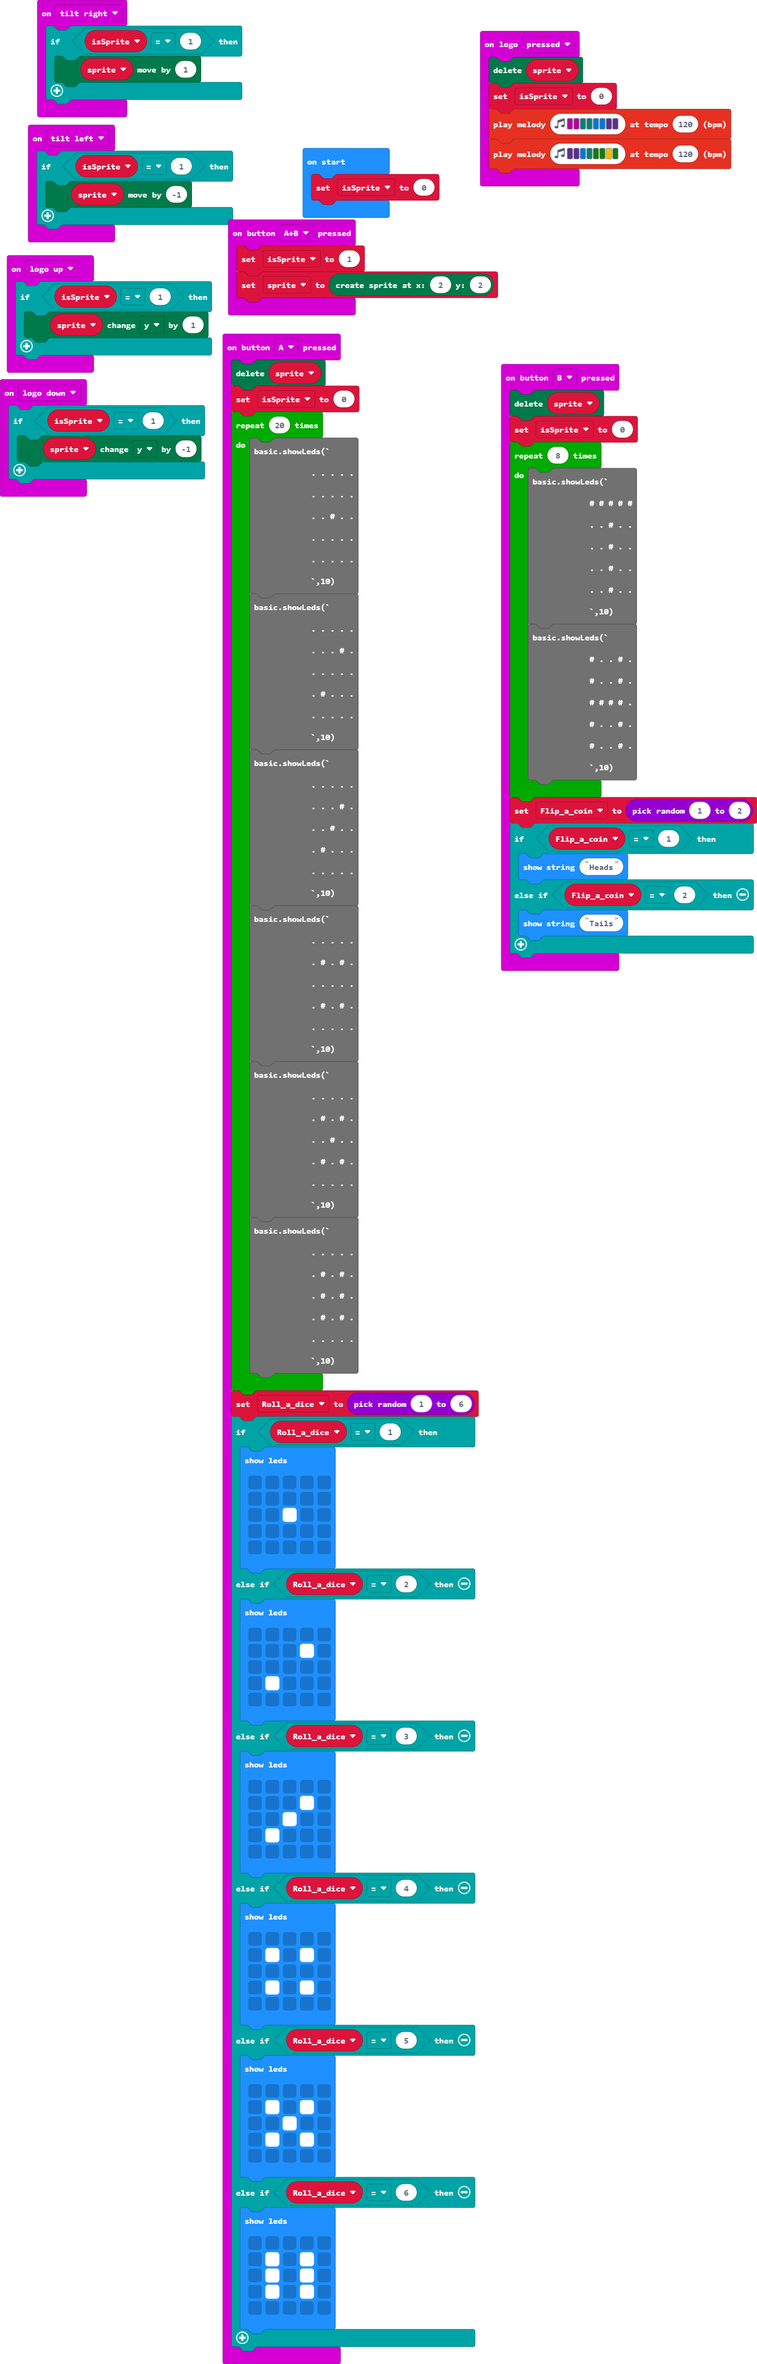
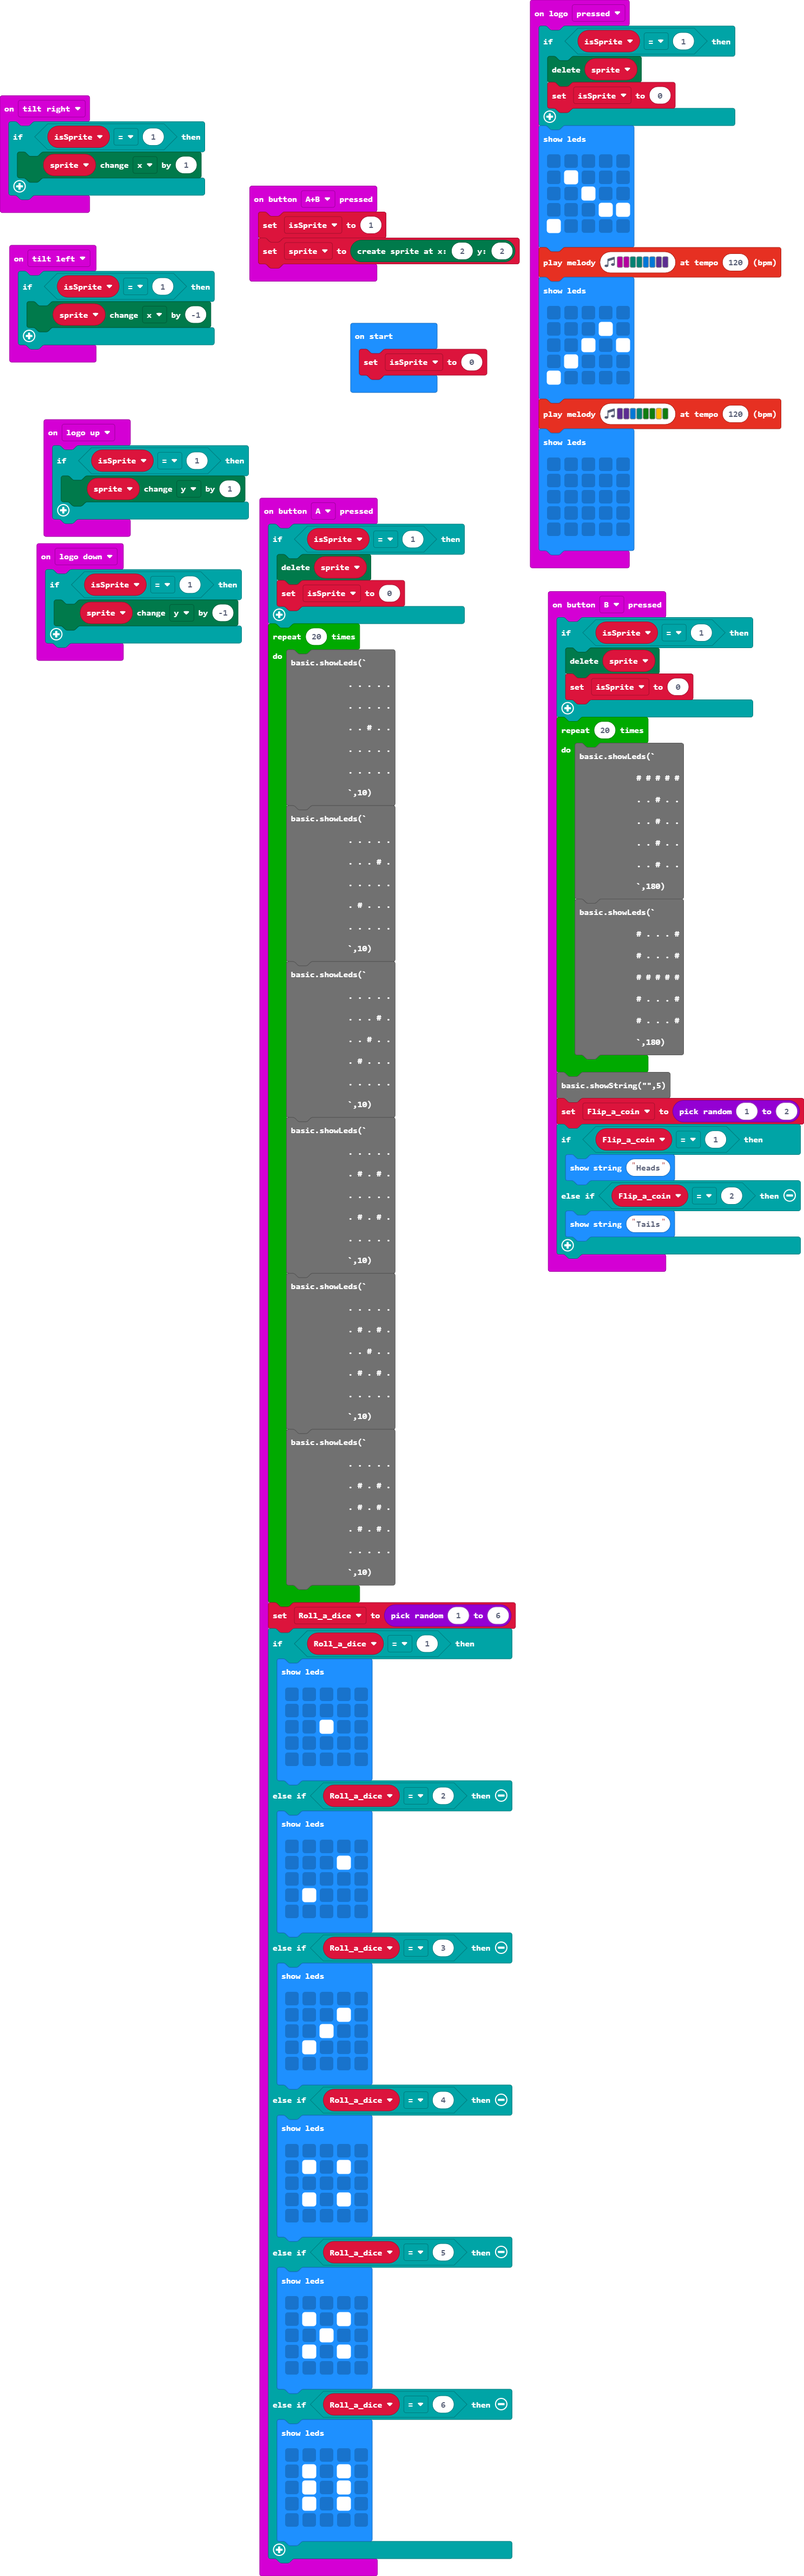
Update main.blocks, main.ts

diff --git a/main.ts b/main.ts
@@ -1,6 +1,8 @@
 input.onButtonPressed(Button.A, function () {
-    sprite.delete()
-    isSprite = 0
+    if (isSprite == 1) {
+        sprite.delete()
+        isSprite = 0
+    }
     for (let index = 0; index < 20; index++) {
         basic.showLeds(`
             . . . . .
@@ -103,7 +105,7 @@ input.onGesture(Gesture.LogoUp, function () {
 })
 input.onGesture(Gesture.TiltLeft, function () {
     if (isSprite == 1) {
-        sprite.move(-1)
+        sprite.change(LedSpriteProperty.X, -1)
     }
 })
 input.onButtonPressed(Button.AB, function () {
@@ -111,25 +113,28 @@ input.onButtonPressed(Button.AB, function () {
     sprite = game.createSprite(2, 2)
 })
 input.onButtonPressed(Button.B, function () {
-    sprite.delete()
-    isSprite = 0
-    for (let index = 0; index < 8; index++) {
+    if (isSprite == 1) {
+        sprite.delete()
+        isSprite = 0
+    }
+    for (let index = 0; index < 20; index++) {
         basic.showLeds(`
             # # # # #
             . . # . .
             . . # . .
             . . # . .
             . . # . .
-            `,10)
+            `,180)
 basic.showLeds(`
-            # . . # .
-            # . . # .
-            # # # # .
-            # . . # .
-            # . . # .
-            `,10)
+            # . . . #
+            # . . . #
+            # # # # #
+            # . . . #
+            # . . . #
+            `,180)
     }
-    Flip_a_coin = randint(1, 2)
+    basic.showString("",5)
+Flip_a_coin = randint(1, 2)
     if (Flip_a_coin == 1) {
         basic.showString("Heads")
     } else if (Flip_a_coin == 2) {
@@ -138,7 +143,7 @@ basic.showLeds(`
 })
 input.onGesture(Gesture.TiltRight, function () {
     if (isSprite == 1) {
-        sprite.move(1)
+        sprite.change(LedSpriteProperty.X, 1)
     }
 })
 input.onGesture(Gesture.LogoDown, function () {
@@ -147,10 +152,33 @@ input.onGesture(Gesture.LogoDown, function () {
     }
 })
 input.onLogoEvent(TouchButtonEvent.Pressed, function () {
-    sprite.delete()
-    isSprite = 0
+    if (isSprite == 1) {
+        sprite.delete()
+        isSprite = 0
+    }
+    basic.showLeds(`
+        . . . . .
+        . # . . .
+        . . # . .
+        . . . # #
+        # . . . .
+        `)
     music.playMelody("C C F F E E D D ", 120)
+    basic.showLeds(`
+        . . . . .
+        . . . # .
+        . . # . #
+        . # . . .
+        # . . . .
+        `)
     music.playMelody("D D E F G G A G ", 120)
+    basic.showLeds(`
+        . . . . .
+        . . . . .
+        . . . . .
+        . . . . .
+        . . . . .
+        `)
 })
 let Flip_a_coin = 0
 let Roll_a_dice = 0
